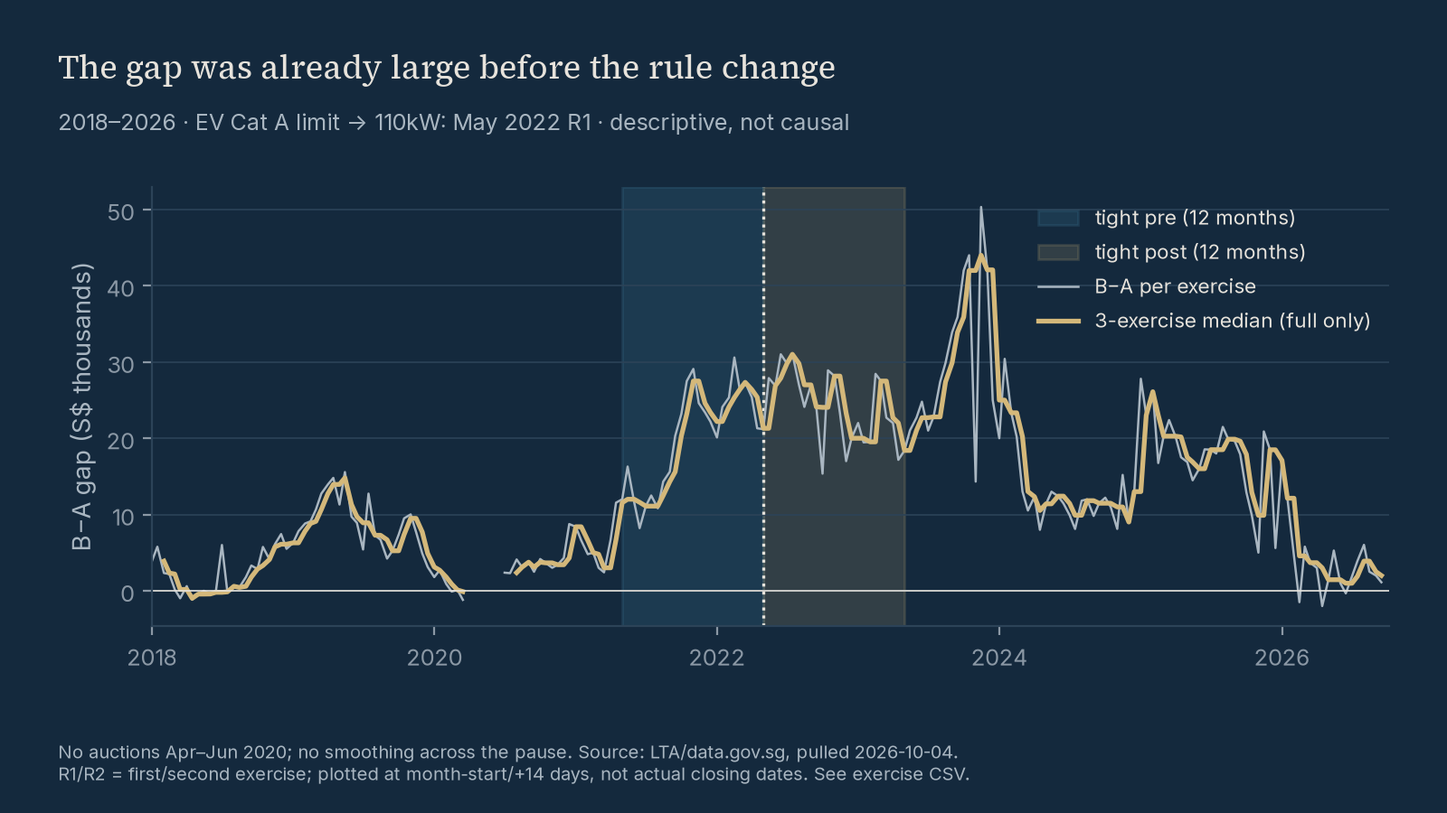
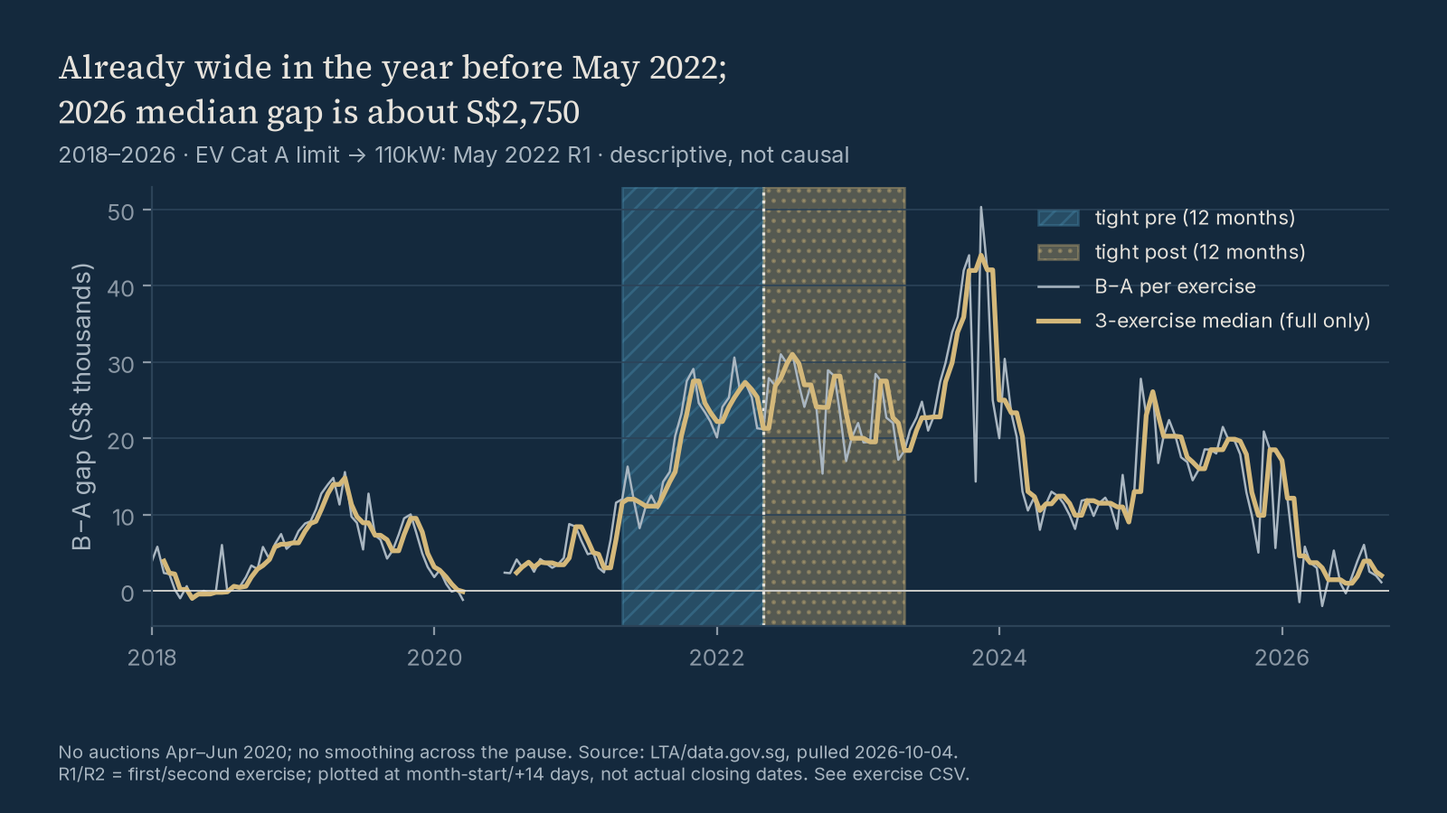
[verified] fix: clarify paired medians and May 2022 confounds

Changed region(s): [[0.0312, 0.0622, 0.625, 0.7778], [0.7188, 0.2489, 0.75, 0.3422]]

diff --git a/docs/index.html b/docs/index.html
@@ -50,7 +50,7 @@ code{font-family:ui-monospace,Consolas,Menlo,monospace;font-size:.92em}footer{bo
 <img src="img/banner.svg" alt="Did the B–A premium gap move after May 2022? A descriptive before/after read, not a causal estimate.">
 </picture></div>
 <h1>The gap answer depends on the window</h1>
-<p class="lead"><b>Both premium levels rose.</b> The median exercise-level B−A gap rose from <b>S$6,190.50 to S$18,198.50</b> in the structural comparison (<b>+S$12,008</b>). In the fixed ±12-month comparison it rose from <b>S$21,745.50 to S$24,081.50</b> (<b>+S$2,336</b>): the gap was already large before May 2022.</p>
+<p class="lead"><b>Both premium levels rose.</b> The median exercise-level B−A gap rose from <b>S$6,190.50 to S$18,198.50</b> in the structural comparison (<b>+S$12,008</b>). In the fixed ±12-month comparison it rose from <b>S$21,745.50 to S$24,081.50</b> (<b>+S$2,336</b>): the gap was already large in the year before May 2022.</p>
 <p class="note"><b>Not the effect of the rule change.</b> Redefining A/B changed the baskets being compared. These are different observational samples, with no fixed-composition or untreated control. The small tight-window change does not establish that the rule had no effect.</p>
 <div class="stats">
 <div class="stat"><div class="n">+S$12,008</div><div class="l">Structural median B−A change: 6,190.50 → 18,198.50. Pre 2018-01–2022-04: n=98; post 2022-05–2026-09 R2: n=106 exercises.</div></div>
@@ -62,11 +62,13 @@ code{font-family:ui-monospace,Consolas,Menlo,monospace;font-size:.92em}footer{bo
 <source media="(prefers-color-scheme: dark)" srcset="img/f1_levels-dark.png">
 <img src="img/f1_levels.png" alt="Category A and B premiums rose; the May 2022 eligibility boundary is marked, not interpreted as causal.">
 </picture><figcaption>Levels and the gap answer different questions. Premium means auction quota premium, not renewal PQP or vehicle transaction price. R1/R2 are spaced at month-start/+14 days for display, not actual closing dates.</figcaption></figure>
-<h2>The gap was already large before May 2022</h2>
+<p class="note">Do not subtract the level columns to obtain the median paired gap. median(B)−median(A) moves structural 3,386 → 18,948.50 (+15,562.50) but tight 25,441.50 → 22,028.50 (−3,413), the opposite sign from the median paired-gap change (+12,008 structural; +2,336 tight). For the gap finding, quote the median of exercise-level B−A only.</p>
+<h2>Already wide in the year before May 2022; narrower in 2026</h2>
 <figure class="fig"><picture>
 <source media="(prefers-color-scheme: dark)" srcset="img/f2_gap-dark.png">
 <img src="img/f2_gap.png" alt="B−A gaps with full three-exercise medians; the fixed tight comparison windows are shaded.">
 </picture><figcaption>Shading marks the tight comparison windows, not confidence intervals or treatment effects. The structural read uses the whole 2018-onward chart on either side. Observed ranges overlap substantially; post gaps are not uniformly above pre gaps.</figcaption></figure>
+<p>Calendar-year median paired gaps (S$), not a permanent post level: 2018 1,991; 2019 8,863.50; 2020 2,852.50; 2021 11,799; 2022 25,890.50 (May split); 2023 23,796.50; 2024 11,900.50; 2025 18,492.50; 2026 2,750 (Jan–Sep R2, 18 exercises). 2022 is not a post-only year. The 2026 partial-year median is below the structural-pre median.</p>
 <h2>Method — separate levels from paired differences</h2>
 <ol class="method">
 <li><b>Acquire and verify</b> — independently downloaded LTA <a href="https://data.gov.sg/datasets/d_69b3380ad7e51aff3a7dcc84eba52b8a/view">COE bidding results</a>, pulled 2026-10-04. The vendored raw CSV has a byte-SHA-256 manifest. <a href="https://github.com/faizsaifulnizam/coe-category-break/blob/main/src/download.py">Download code</a> validates before replacing raw/manifest.</li>
@@ -80,9 +82,11 @@ code{font-family:ui-monospace,Consolas,Menlo,monospace;font-size:.92em}footer{bo
 <h2>What this file cannot say</h2>
 <p><a href="https://onemotoring.lta.gov.sg/content/dam/onemotoring/pdf/Circulars%20to%20ESAs/2022/VRL_04_2022.pdf">LTA circular VRL/04/2022, pp 1, 4–5</a> raises fully electric Cat A maximum power from 97 to 110kW inclusive at the first May 2022 exercise (4–6 May), not the March announcement. Non-fully-electric A retains ≤1,600cc AND ≤97kW. This changes composition in a shared scarce-permit market; B is not an untreated control.</p>
 <p>B−A cancels only exactly shared additive changes, not category-specific quota, demand or mix shifts. Quota/supply cycles, dealer orders, EV incentives/adoption, model availability, macro conditions and anticipation can confound the comparison. Reclassification may mechanically move measured gaps without a behavioral response. Range overlap cannot prove zero effect. Aggregate clearing prices lack individual bids, power bands, registrations and buyer substitution.</p>
+<p>At the boundary, summed exercise quota in this snapshot moves Feb–Apr 2022 → May–Jul 2022 by Cat A 3,220 → 3,708 (+15.2%) and Cat B 3,325 → 3,168 (−4.7%); Apr R2 → May R1 is A 532 → 612 (+15.0%) and B 560 → 527 (−5.9%). This is a category-asymmetric supply change in the same file, not a control, and it is not removed by B−A. These figures come from the vendored quota column, not a separately verified release annex.</p>
 <p>No causal estimates, difference-in-differences, significance stars, prescriptions or forecasts. The <a href="https://github.com/faizsaifulnizam/coe-category-break/blob/main/docs/if_i_ran_the_test.md">experiment-design annex</a> discusses counterfactuals and shared-market interference; it is not an implemented experiment with this dataset.</p>
 <h2>Reproduce</h2>
 <p>The repository README carries the full rules, validation and limits. Git Bash / Bash, Windows or Linux:</p>
+<p>Requires uv on PATH (https://docs.astral.sh/uv/) to create the Python 3.12 venv. If uv is absent, use <code>python3.12 -m venv .venv</code> (<code>py -3.12 -m venv .venv</code> on Windows), activate as below, then use the same pip line. CI uses actions/setup-python and does not run the uv line.</p>
 <pre><code>git clone https://github.com/faizsaifulnizam/coe-category-break &amp;&amp; cd coe-category-break
 uv venv .venv --python 3.12 --seed
 if [ -f .venv/Scripts/activate ]; then source .venv/Scripts/activate; else source .venv/bin/activate; fi
@@ -94,10 +98,11 @@ python src/figures.py
 python -m unittest discover -s tests -v
 python tests/smoke_test.py</code></pre>
 <p class="cap">Default download validates the committed snapshot without data-fetch network. Installing dependencies needs network/cache. A later <code>--force</code> pull requires rerunning all stages and reviewing maintained prose, chart titles and snapshot locks. Spot-check all-round gap medians: structural 6,190.50 → 18,198.50; tight 21,745.50 → 24,081.50; <code>git diff --exit-code -- 'outputs/*.csv'</code>.</p>
+<p class="cap">Figure PNG bytes are not a cross-machine lock. A dirty reports/figures or docs/img after figures.py is compression/metadata-only only if the decoded pixels also match the committed PNGs. An empty CSV diff alone does not establish image equivalence; inspect any pixel differences.</p>
 <h2>Read more</h2>
 <ul>
 <li><a href="https://github.com/faizsaifulnizam/coe-category-break">Repository and inline method</a> · <a href="https://github.com/faizsaifulnizam/coe-category-break/tree/main/outputs">numerical outputs</a></li>
-<li><a href="https://github.com/faizsaifulnizam/coe-category-break/blob/main/docs/decision_memo.md">Decision memo</a> · <a href="https://github.com/faizsaifulnizam/coe-category-break/blob/main/docs/data_audit.md">data audit</a> · <a href="https://github.com/faizsaifulnizam/coe-category-break/blob/main/docs/verification.md">verification receipts and clean-history context</a></li>
+<li><a href="https://github.com/faizsaifulnizam/coe-category-break/blob/main/docs/decision_memo.md">Decision memo</a> · <a href="https://github.com/faizsaifulnizam/coe-category-break/blob/main/docs/data_audit.md">data audit</a> · <a href="https://github.com/faizsaifulnizam/coe-category-break/blob/main/docs/verification.md">public verification receipts</a></li>
 <li><a href="https://github.com/faizsaifulnizam/coe-category-break/blob/main/docs/if_i_ran_the_test.md">If I ran the test — experiment-design annex</a></li>
 </ul>
 <footer>

diff --git a/tests/test_site.py b/tests/test_site.py
@@ -18,6 +18,37 @@ class Tags(HTMLParser):
     def handle_starttag(self,tag,attrs):self.tags.append((tag,dict(attrs)))
 
 class Site(unittest.TestCase):
+    def test_review_claims_match_raw_and_explain_opposite_sign(self):
+        from collections import defaultdict
+        from statistics import median
+        with (ROOT/'data/raw/coe-bidding-results.csv').open(encoding='utf-8',newline='') as f:
+            raw=list(csv.DictReader(f))
+        pairs=defaultdict(dict)
+        for r in raw:
+            if r['month']>='2018-01' and r['vehicle_class'] in ('Category A','Category B'):
+                pairs[(r['month'],r['bidding_no'])][r['vehicle_class']]=int(r['premium'].replace(',',''))
+        annual=defaultdict(list)
+        for (month,_),p in pairs.items():annual[month[:4]].append(p['Category B']-p['Category A'])
+        self.assertEqual((median(annual['2026']),len(annual['2026'])),(2750,18))
+        with (ROOT/'outputs/gap_summary.csv').open(encoding='utf-8',newline='') as f:
+            tight={r['period']:r for r in csv.DictReader(f) if r['window']=='tight' and r['variant']=='all'}
+        differences=[Decimal(tight[p]['median_b'])-Decimal(tight[p]['median_a']) for p in ('pre','post')]
+        self.assertEqual(differences[1]-differences[0],Decimal('-3413'))
+        for name in ('README.md','docs/index.html'):
+            text=(ROOT/name).read_text(encoding='utf-8')
+            self.assertIn('opposite sign',text)
+            self.assertIn('−3,413',text)
+            self.assertIn('2022 is not a post-only year',text)
+            for year,values in sorted(annual.items()):
+                self.assertIn(f'{year} {median(values):,.2f}'.removesuffix('.00'),text)
+            for cat in ('Category A','Category B'):
+                quotas=[sum(int(r['quota']) for r in raw if r['vehicle_class']==cat and start<=r['month']<=end) for start,end in (('2022-02','2022-04'),('2022-05','2022-07'))]
+                change=(quotas[1]/quotas[0]-1)*100
+                self.assertIn(f'{quotas[0]:,} → {quotas[1]:,} ({change:+.1f}%)'.replace('-','−'),text)
+            self.assertIn('Requires uv on PATH',text)
+            self.assertIn('decoded pixels',text)
+            self.assertNotIn('Private clone requires',text)
+
     def test_site_assets_metadata_claims_and_series(self):
         html=(ROOT/'docs/index.html').read_text(encoding='utf-8')
         card=(ROOT/'docs/social-card.html').read_text(encoding='utf-8')

diff --git a/src/figures.py b/src/figures.py
@@ -91,12 +91,12 @@ def main():
         for gap in (False,True):
             fig,ax=plt.subplots(figsize=(8,4.5),dpi=200)
             fig.subplots_adjust(left=.105,right=.96,bottom=.23,top=.77)
-            title=fig.text(.04,.945,'The gap was already large before the rule change' if gap else 'Both categories rose; the gap followed its own path',fontsize=13,ha='left',va='top',fontfamily='Source Serif 4',color=ink)
-            subtitle=fig.text(.04,.84,f"2018–{rows[-1][0].year} · EV Cat A limit → 110kW: May 2022 R1 · descriptive, not causal",fontsize=9,color=muted)
+            title=fig.text(.04,.945,'Already wide in the year before May 2022;\n2026 median gap is about S$2,750' if gap else 'Both categories rose; the gap followed its own path',fontsize=13,ha='left',va='top',fontfamily='Source Serif 4',color=ink)
+            subtitle=fig.text(.04,.80 if gap else .84,f"2018–{rows[-1][0].year} · EV Cat A limit → 110kW: May 2022 R1 · descriptive, not causal",fontsize=9,color=muted)
             ax.axvline(date(2022,5,1),color=ink,ls=':',lw=1.2)
             if gap:
-                ax.axvspan(date(2021,5,1),date(2022,5,1),color=petrol,alpha=.16,label='tight pre (12 months)')
-                ax.axvspan(date(2022,5,1),date(2023,5,1),color=brass,alpha=.16,label='tight post (12 months)')
+                ax.axvspan(date(2021,5,1),date(2022,5,1),color=petrol,alpha=(.34 if dark else .16),hatch='///' if dark else None,label='tight pre (12 months)')
+                ax.axvspan(date(2022,5,1),date(2023,5,1),color=brass,alpha=(.34 if dark else .16),hatch='...' if dark else None,label='tight post (12 months)')
                 ax.plot(xs,series[2],color=muted,lw=.9,label='B−A per exercise')
                 ax.plot(xs,series[3],color=brass,lw=1.9,label='3-exercise median (full only)')
                 ax.axhline(0,color=ink,lw=.6)

diff --git a/tests/test_figures.py b/tests/test_figures.py
@@ -10,6 +10,25 @@ sys.path.insert(0,str(Path(__file__).resolve().parents[1]))
 ROOT=Path(__file__).resolve().parents[1]
 
 class Figures(unittest.TestCase):
+    def test_gap_title_and_theme_window_contrast(self):
+        from src import figures
+        original=figures.qa
+        seen=[]
+        def inspect(fig,title,footer,subtitle):
+            ax=fig.axes[0]
+            if ax.get_ylabel()=='B−A gap (S$ thousands)':
+                self.assertIn('year before May 2022',title.get_text())
+                self.assertIn('2026 median gap is about S$2,750',title.get_text())
+                dark=fig.get_facecolor()[0]<.5
+                self.assertEqual([p.get_alpha() for p in ax.patches],[.34 if dark else .16]*2)
+                seen.append(dark)
+            original(fig,title,footer,subtitle)
+        try:
+            with patch.object(figures,'qa',inspect):figures.main()
+            self.assertEqual(seen,[False,True])
+        finally:
+            figures.plt.close('all')
+
     def test_figures_cli_repeat_bytes(self):
         self.assertTrue((ROOT/'src/figures.py').exists(),'figure CLI missing')
         paths=[ROOT/f'reports/figures/{stem}{suffix}.png' for stem in ('f1_levels','f2_gap') for suffix in ('','-dark')]+[ROOT/f'assets/banner{suffix}.svg' for suffix in ('','-dark')]

diff --git a/docs/verification.md b/docs/verification.md
@@ -1,56 +1,9 @@
-# Verification receipts — publication layer and private-review provenance
+# Public verification — 2026-10-04
 
-**2026-10-04 · reviewed; publication approved.** Site/card preparation and checks below are local. Merge, public visibility, Pages deployment and manual social-preview upload are separate operations; this receipt does not claim they have happened.
+The public baseline at [`4d969f2`](https://github.com/faizsaifulnizam/coe-category-break/commit/4d969f2b326cdbd9bbeea5402b9d44c003a15779) passed the README block on Python 3.12: hash-locked pip install, download/build/analysis/figures, **17 tests OK**, smoke PASS and byte-identical `outputs/*.csv`. [CI on that SHA passed](https://github.com/faizsaifulnizam/coe-category-break/actions/runs/37187059883).
 
-## Parent final candidate replay — 2026-10-04
+The Grok-review corrections retain the same raw snapshot and all three numerical CSVs. Local Python 3.12 verification returned **19 tests OK**, smoke PASS and an empty CSV diff. New regressions check the actual rendered gap title/dark window alpha and recompute the annual medians, quota sums and tight-window opposite-sign distinction from raw-backed data. The existing transition test still selects Apr/May 2022 R1/R2. Run the [README commands](../README.md#reproduce) to repeat these checks; [current CI](https://github.com/faizsaifulnizam/coe-category-break/actions/workflows/ci.yml) is a separate public record, not inferred from local tests.
 
-A genuinely fresh remote clone at publication-layer head `97625bece488bc3238337aa7fd807f6a076ee940` executed the README's own environment creation, pinned dependency installation and every Python command. 17 focused tests and smoke; 9 protected CSV/PNG/SVG artifacts passed. Every tracked file retained its pre-run SHA-256 and `git status --porcelain` was empty. Figure/banner copies under `docs/img/` match their producer outputs byte-for-byte. Both 1280×640 preview cards were checked.
+The [artifact receipt](artifact_receipt.json) contains current nine-artifact SHA-256 values. Same-environment figure renders repeat byte-for-byte. PNG bytes can differ across machines: compare decoded pixels before calling a change compression/metadata-only. An empty CSV diff does not prove image equivalence.
 
-All reachable Git objects were scanned against the actual non-noreply identity values from the preserved private history: zero matches. Candidate commit authors and committers use the required portfolio noreply identity. Private markers are discovered across the archived history, excluding portfolio and GitHub service noreply identities.
-
-Durable operator receipts: `D:/Data Portfolio/work/wave3/evidence/publication-final/`. These are local evidence locations, not runnable project inputs. The following status/receipt edits change Markdown only; the executed producers and reviewed artifact bytes remain unchanged. Final merge-SHA CI, anonymous access and deployed-blob comparisons are separate coordinator gates, not inferred from this local replay.
-
-## Clean-history context
-
-This repository starts at clean noreply root **27b6a6711b4a8e4c5cc54d8b37e44a8237148cb1**. Its initial tree preserves the reviewed private-build artifacts. Prior implementation, independent reviews and PR/CI history are archived privately outside this clean repository's history, not presented as current public PRs or CI runs. Both author and committer of the clean root use the GitHub noreply identity.
-
-The [artifact receipt](artifact_receipt.json) is explicitly a **historical private pre-publication receipt**. Its `head`, `ref`, workspace paths and 15-test result describe that earlier private clone, not execution from the clean root or this publication branch. They are retained as provenance; those commit identifiers are not promised to resolve in public history. Workspace paths in the historical sections below are non-portable evidence locations, not repository inputs.
-
-## Local publication-layer checks (2026-10-04)
-
-- The vendored download validation and staging ran successfully: **1,980 rows, 396 complete exercises; 204 paired analysis exercises; SQL 5/5**. No live repull or numerical-method change.
-- `python -m unittest discover -s tests -v` using the already-installed Windows Python 3.12 environment returned **17 tests, OK**; smoke PASS. Added checks cover site metadata, both CSV-backed comparison anchors/counts, six series links, local assets/font targets and 1280×640 card dimensions. Figure tests confirm six site copies match their sources and inject a failure at the **last Pages replacement in the actual 12-file figure/banner batch**, restoring every prior byte and cleaning staged files.
-- Four figures and two banners regenerated twice with equal same-environment hashes. `git diff --exit-code` for raw/manifest, numerical CSVs, original figure PNGs and banner SVGs returned **0** against the clean root; their reviewed bytes are unchanged. Six Pages copies use the existing validated publication seam, not a separate analysis path.
-- Edge headless/CDP exercised **10 local browser cases**: site and GitHub-API-rendered README at 1280px and 390px in light/dark, plus both 1280×640 card themes. All three picture images loaded and selected the expected theme; no page-level horizontal overflow. Inter and Source Serif 4 loaded. Card text boxes were in bounds with no overlap; repeated captures were byte-identical in this run.
-- `gh api markdown` supplied GitHub's current sanitized README HTML: three standalone pictures survived with one source and one image each. Browser media QA served that HTML with local assets and minimal preview CSS; external badges were excluded. This is **not a logged-in github.com DOM or deployed Pages receipt**.
-- Markdown/local-media scan: **27 distinct local targets, zero missing**. Static site checks validate asset/font confinement under `docs/`, canonical URL, absolute Pages Open Graph image, dimensions and Twitter large-image metadata. The canonical Pages target is intentionally not treated as a live deployment check.
-- Visual inspection covered the light card and mobile dark site, then both final card themes. A suspected dark-card contrast issue was checked numerically: body/footer **7.175:1** (normal-text threshold 4.5:1); 22px semibold disclaimer **4.347:1** (large-text threshold 3:1). No clipping or overlap remained. Windows/Edge rendering is the measured scope, not cross-browser pixel equivalence.
-
-Workspace QA logs/screenshots: `C:/Users/Faiz/AppData/Local/hermes/cache/scratch/coe05-publication-qa/` (`tests.log`, `readme-api.html`, `browser-receipt.json`, theme screenshots); reusable local browser check: sibling `coe05-publication-qa.py`. This publication layer adds no installed dependency and changes no external settings. Final fresh-clone setup and deployed-site checks belong to the publication coordinator.
-
-## Prior private build — actual execution (historical)
-
-Own live download succeeded at 2026-10-04T00:04:11+00:00. Exact raw SHA-256 is in [pull_manifest.json](../data/raw/pull_manifest.json), matches file bytes; 1,980 rows / 396 complete exercises, latest 2026-09 R2.
-
-The README four-stage pipeline completed. `env -u TMPDIR .venv/Scripts/python.exe -m unittest discover -s tests -v` returned **15 tests, OK**, followed by smoke PASS and compileall exit 0. Independent stdlib recomputation covers all 12 summary rows. Two-render test compared **four PNG and two SVG hashes**, equal in the tested Windows/Python3.12 environment. Producer-boundary regressions include invalid HTTP schema preserving prior raw+manifest, valid-but-tampered cache rejection, missing/unpaired A/B including latest, duplicates, missing whole scheduled auction, latest complete R1, future growth, transition selections, suspension reset and ordinary batch replacement rollback.
-
-Red/green receipts during development: missing byte validator, batch publication seam, SQL metrics seam, analysis CLI and figure CLI each failed before implementation and passed afterward. Valid-but-manifest-mismatched bytes initially passed staging; new regression failed, manifest enforcement fixed it and the full suite passed. Figure pixel assertions caught title/subtitle overlap and banner footer placement; corrected and repeated. Shared styles/assets reused; no new tools installed.
-
-Visual review covered all four light/dark figure combinations. It prompted naming the 110kW EV change, expanding first/second exercise terminology and increasing pre-window shade contrast. Numeric QA measures **64px minimum** title/subtitle/footer horizontal margins, checks all visible text inside canvas, figure-text/annotation overlaps and legend-observation clearance. No claim of SVG font equivalence across viewers or pixel equality across OSs.
-
-Full local command log (workspace receipt, not a portable repo input):
-`C:/Users/Faiz/AppData/Local/hermes/cache/scratch/coe05-receipts/local-final.log`.
-
-## Prior private build — scope and checks (historical)
-
-Originality re-check in [audit](data_audit.md): medium adjacency; corrected earlier no-prior-work claim because press already discusses the EV rule/gap. No topic/data novelty claim. Build sheet, spec and learning pack stay outside the repo. Shared hub/design/learn00, sibling repos, publish/, planning and skills were not modified.
-
-Settings read back: private, no Pages, wiki/projects off; Dependabot alerts HTTP204 and automated security fixes enabled/unpaused. No settings change required.
-
-## Prior private build — fresh clone, exact README commands (historical)
-
-Branch snapshot **b3a19b69ce787c81828d1d34b25039e720dade55** was cloned into a new native-path scratch directory. The fresh README bash block supplied uv venv (`--seed`), platform-aware activation, **hash-locked pip install**, four pipeline commands, all tests and smoke—unchanged after the equivalent authorized clone line (explicit branch ref). With TMPDIR absent, exit **0**; **15 tests OK**, smoke PASS; **9/9 artifact SHA-256 values identical** (3 CSV, 4 PNG, 2 SVG), `git diff` empty and `git status` clean. Relative-link scan: **25 distinct local targets, 0 missing**. [Machine receipt and exact hashes](artifact_receipt.json).
-
-Workspace logs and reusable verifier: `C:/Users/Faiz/AppData/Local/hermes/cache/scratch/coe05-receipts/branch-stranger-gitbash.log`, `.json`, and `verify_coe05.py`. Initial scratch harness selected Windows' WSL `bash` and could not start it; discovered the actual Git Bash executable and re-ran in a second genuinely fresh clone. This was a harness path issue, not fabricated successful output or a bypass of README setup.
-
-The historical receipt's branch hash preceded its private documentation-only receipt commit. Historical PR/main CI state was recorded outside the public history after actual runs. Current branch CI must be read from its own PR checks; neither historical evidence nor local tests stand in for green CI or a new fresh-clone setup receipt.
+Private-machine paths and pre-publication commit identifiers are not used as public verification evidence.

diff --git a/README.md b/README.md
@@ -13,9 +13,9 @@
 
 [![CI](https://github.com/faizsaifulnizam/coe-category-break/actions/workflows/ci.yml/badge.svg)](https://github.com/faizsaifulnizam/coe-category-break/actions/workflows/ci.yml) [![MIT](https://img.shields.io/badge/license-MIT-B9975B.svg)](LICENSE) ![Python 3.12](https://img.shields.io/badge/Python-3.12-22607B.svg) ![DuckDB](https://img.shields.io/badge/SQL-DuckDB-C0552B.svg) [Data: LTA/data.gov.sg](https://data.gov.sg/datasets/d_69b3380ad7e51aff3a7dcc84eba52b8a/view)
 
-> **Both premium levels rose, but the gap answer depends on the window.** The median exercise-level **B−A gap rose from S$6,190.50 to S$18,198.50** in the structural comparison (**+S$12,008**). In the fixed ±12-month comparison it rose only **S$2,336**, from **S$21,745.50 to S$24,081.50**: the gap was already large before May 2022. These describe different samples, **not the effect of the rule change**, and do not establish that the rule had no effect.
+> **Both premium levels rose, but the gap answer depends on the window.** The median exercise-level **B−A gap rose from S$6,190.50 to S$18,198.50** in the structural comparison (**+S$12,008**). In the fixed ±12-month comparison it rose only **S$2,336**, from **S$21,745.50 to S$24,081.50**: the gap was already large in the year before May 2022. These describe different samples, **not the effect of the rule change**, and do not establish that the rule had no effect.
 
-**Status:** built and reviewed 2026-10-04; publication approved. Fixed official snapshot through **2026-09 R2**, independently pulled 2026-10-04. Findings/chart titles are reviewed prose, not automatically refreshed text. Part of a six-repo series on Singapore public data. [Report site](https://faizsaifulnizam.github.io/coe-category-break/) · [verification receipts](docs/verification.md). Prior private reviews are archived outside this repository's clean public history.
+**Status:** built and reviewed 2026-10-04; public. Grok-review corrections verified 2026-10-04. Fixed official snapshot through **2026-09 R2**, independently pulled 2026-10-04. Findings/chart titles are reviewed prose, not automatically refreshed text. Part of a six-repo series on Singapore public data. [Report site](https://faizsaifulnizam.github.io/coe-category-break/) · [verification receipts](docs/verification.md). Prior private reviews are archived outside this repository's clean public history.
 
 ## Key numbers (all reproducible)
 
@@ -28,8 +28,9 @@ One observation = one fully paired exercise; money is **S$**, not vehicle prices
 | Tight pre: 2021-05–2022-04 | 24 (12 / 12) | 53,209 | 78,650.50 | 21,745.50 | 8,211 → 30,590 |
 | Tight post: 2022-05–2023-04 | 24 (12 / 12) | 86,000 | 108,028.50 | 24,081.50 | 15,355 → 31,104 |
 
-- **Levels rose in both windows:** structural median A **+59,484**, B **+75,046.50**; tight A **+32,791**, B **+29,378**. Level-median changes do not algebraically decompose the median paired gap.
+- **Levels rose in both windows:** structural median A **+59,484**, B **+75,046.50**; tight A **+32,791**, B **+29,378**. Do not subtract the level columns to obtain the median paired gap. median(B)−median(A) moves structural 3,386 → 18,948.50 (+15,562.50) but tight 25,441.50 → 22,028.50 (−3,413), the opposite sign from the median paired-gap change (+12,008 structural; +2,336 tight). For the gap finding, quote the median of exercise-level B−A only.
 - **Ranges overlap substantially:** post gaps were not uniformly above pre gaps. The long comparison cannot isolate a discontinuity at the event; the tight comparison does not establish its absence.
+- Calendar-year median paired gaps (S$), not a permanent post level: 2018 1,991; 2019 8,863.50; 2020 2,852.50; 2021 11,799; 2022 25,890.50 (May split); 2023 23,796.50; 2024 11,900.50; 2025 18,492.50; 2026 2,750 (Jan–Sep R2, 18 exercises). 2022 is not a post-only year. The 2026 partial-year median is below the structural-pre median.
 - **Robust reads preserve the sign, not magnitude:** R1-only gap-median changes **+12,398 / +2,792.50** (structural/tight); excluding two exercises each side **+11,892.50 / +2,832.50**. [Sensitivity CSV](outputs/sensitivity.csv) / [how to read it](docs/sensitivity.md).
 
 <picture>
@@ -43,7 +44,7 @@ One observation = one fully paired exercise; money is **S$**, not vehicle prices
 
 <picture>
 <source media="(prefers-color-scheme: dark)" srcset="reports/figures/f2_gap-dark.png">
-<img src="reports/figures/f2_gap.png" width="100%" alt="B−A gaps with full three-exercise medians; tight windows shaded. The gap was already large before May 2022.">
+<img src="reports/figures/f2_gap.png" width="100%" alt="B−A gaps with full three-exercise medians; tight windows shaded. Already wide in the year before May 2022; 2026 Jan–Sep median gap is S$2,750.">
 </picture>
 
 [Full-size gap](reports/figures/f2_gap.png) · [dark](reports/figures/f2_gap-dark.png) · [exercise table](outputs/exercise_series.csv). Shading marks comparison windows, **not confidence intervals or treatment effects**. Structural comparison = whole 2018-onward chart on either side.
@@ -103,6 +104,8 @@ One locked question; declared windows; SQL first; preserve bytes; independent ch
 
 ## Reproduce
 
+Requires uv on PATH (https://docs.astral.sh/uv/) to create the Python 3.12 venv. If uv is absent, use `python3.12 -m venv .venv` (`py -3.12 -m venv .venv` on Windows), activate as below, then use the same pip line. CI uses actions/setup-python and does not run the uv line.
+
 ```bash
 git clone https://github.com/faizsaifulnizam/coe-category-break && cd coe-category-break
 uv venv .venv --python 3.12 --seed
@@ -118,9 +121,13 @@ python -m unittest discover -s tests -v
 python tests/smoke_test.py
 ```
 
-Spot-check `gap_summary.csv`, `variant=all`: structural **6,190.50 → 18,198.50**, tight **21,745.50 → 24,081.50**; then `git diff --exit-code -- 'outputs/*.csv'`. Private clone requires authorized access. A later `python src/download.py --force` creates a **new snapshot**: rerun and review maintained prose/chart titles and locks before publishing. Fixed tight-window dates do not slide with new history.
+Figure PNG bytes are not a cross-machine lock. A dirty `reports/figures` or `docs/img` after `figures.py` is compression/metadata-only only if the decoded pixels also match the committed PNGs. An empty CSV diff alone does not establish image equivalence; inspect any pixel differences.
+
+Spot-check `gap_summary.csv`, `variant=all`: structural **6,190.50 → 18,198.50**, tight **21,745.50 → 24,081.50**; then `git diff --exit-code -- 'outputs/*.csv'`. A later `python src/download.py --force` creates a **new snapshot**: rerun and review maintained prose/chart titles and locks before publishing. Fixed tight-window dates do not slide with new history.
 
 ## Caveats
+
+At the boundary, summed exercise quota in this snapshot moves Feb–Apr 2022 → May–Jul 2022 by Cat A 3,220 → 3,708 (+15.2%) and Cat B 3,325 → 3,168 (−4.7%); Apr R2 → May R1 is A 532 → 612 (+15.0%) and B 560 → 527 (−5.9%). This is a category-asymmetric supply change in the same file, not a control, and it is not removed by B−A. These figures come from the vendored quota column, not a separately verified release annex.
 
 Quota/supply cycles, dealer orders/bidding strategy, model availability, EV incentives/adoption, macro conditions and anticipation are potential confounds. Reclassification may move measured gaps mechanically through basket composition without proving a behavioral response. Aggregate clearing prices lack individual bids, EV power bands, registrations or buyer substitution. Structural validation does not certify every historical cell; the as-is source can revise.
 

diff --git a/docs/decision_memo.md b/docs/decision_memo.md
@@ -4,13 +4,19 @@
 
 The long structural read shows a wider median B−A gap: **S$6,190.50 → S$18,198.50 (+12,008)**. It compares 2018-01–2022-04 (98 exercises) with 2022-05–2026-09 R2 (106). Median A rises **36,619 → 96,103** and B **40,005 → 115,051.50**. Gap ranges **−1,198–30,590** and **−2,009–50,335** overlap; the post series is not uniformly higher.
 
-The symmetric calendar read tells a smaller story. In 2021-05–2022-04 versus 2022-05–2023-04, **24 exercises each**, the median gap is **21,745.50 → 24,081.50 (+2,336)**. Median A is **53,209 → 86,000** and B **78,650.50 → 108,028.50**; gap ranges **8,211–30,590** versus **15,355–31,104**. The gap was already large before the rule took effect. Both premium levels rose substantially, without a comparably large tight-window gap shift.
+The symmetric calendar read tells a smaller story. In 2021-05–2022-04 versus 2022-05–2023-04, **24 exercises each**, the median gap is **21,745.50 → 24,081.50 (+2,336)**. Median A is **53,209 → 86,000** and B **78,650.50 → 108,028.50**; gap ranges **8,211–30,590** versus **15,355–31,104**. The gap was already large in the year before the rule took effect. Both premium levels rose substantially, without a comparably large tight-window gap shift.
 
 R1-only preserves positive gap-median changes (**+12,398 structural; +2,792.50 tight**). Excluding Apr R1/R2 and May R1/R2 produces **+11,892.50 / +2,832.50**. This is consistency of direction under these specified reads, not universal robustness or a causal estimate. Medians of paired differences cannot be reconstructed by subtracting category medians.
+
+Do not subtract the level columns to obtain the median paired gap. median(B)−median(A) moves structural 3,386 → 18,948.50 (+15,562.50) but tight 25,441.50 → 22,028.50 (−3,413), the opposite sign from the median paired-gap change (+12,008 structural; +2,336 tight). For the gap finding, quote the median of exercise-level B−A only.
+
+Calendar-year median paired gaps (S$), not a permanent post level: 2018 1,991; 2019 8,863.50; 2020 2,852.50; 2021 11,799; 2022 25,890.50 (May split); 2023 23,796.50; 2024 11,900.50; 2025 18,492.50; 2026 2,750 (Jan–Sep R2, 18 exercises). 2022 is not a post-only year. The 2026 partial-year median is below the structural-pre median.
 
 ## What this file cannot say
 
 LTA's May-2022 first exercise raised the fully electric Cat A threshold from 97 to **110kW inclusive**, changing basket composition. A/B are competing, connected categories, not treatment and untreated control. Quota allocation, supply-cycle timing, dealer demand, model/buyer mix, EV incentives, macro conditions and March-announcement anticipation can differ across time/categories. The gap can change mechanically through reclassification; this file cannot separate that from behavior or identify how much the policy caused.
+
+At the boundary, summed exercise quota in this snapshot moves Feb–Apr 2022 → May–Jul 2022 by Cat A 3,220 → 3,708 (+15.2%) and Cat B 3,325 → 3,168 (−4.7%); Apr R2 → May R1 is A 532 → 612 (+15.0%) and B 560 → 527 (−5.9%). This is a category-asymmetric supply change in the same file, not a control, and it is not removed by B−A. These figures come from the vendored quota column, not a separately verified release annex.
 
 **Decision:** communicate the two windows together; retain the categorical refusal of causality. Do not use the long-window +12,008 as an EV-policy effect, or the small tight-window change as proof of no effect. Individual bids, vehicle power/model, registrations, linked substitution and a credible assignment/counterfactual design would strengthen the study. The [annex](if_i_ran_the_test.md) explains why individual buyer randomization would not recover a shared-market equilibrium effect.
 

diff --git a/docs/data_audit.md b/docs/data_audit.md
@@ -35,9 +35,13 @@ Reconciliation (exclusive reasons): **1,980 = 960 pre-2018 + 612 C/D/E in 2018+ 
 
 [Full summary](../outputs/gap_summary.csv) also contains both robustness variants and round counts. Gap is paired B−A per exercise; its median need not equal median B minus median A. Negative gaps are retained, not labelled erroneous. Min/max are not confidence intervals.
 
+Calendar-year median paired gaps (S$), not a permanent post level: 2018 1,991; 2019 8,863.50; 2020 2,852.50; 2021 11,799; 2022 25,890.50 (May split); 2023 23,796.50; 2024 11,900.50; 2025 18,492.50; 2026 2,750 (Jan–Sep R2, 18 exercises). 2022 is not a post-only year. The 2026 partial-year median is below the structural-pre median.
+
 ## Boundary and coverage decisions
 
 Verified before analysis: [LTA circular 8 March 2022, VRL/04/2022, pp 1, 4–5](https://onemotoring.lta.gov.sg/content/dam/onemotoring/pdf/Circulars%20to%20ESAs/2022/VRL_04_2022.pdf), and [May–July quota release](https://www.lta.gov.sg/content/ltagov/en/newsroom/2022/4/news-releases/certificate-of-entitlement-quota-for-may-2022-to-july-2022.html): eligibility begins **May 2022 first exercise, 4–6 May**. Fully electric A threshold **≤110kW**, formerly 97kW; non-fully-electric A remains ≤1,600cc AND ≤97kW. Newly eligible EVs are not an invariant basket; anticipation can begin at March announcement.
+
+At the boundary, summed exercise quota in this snapshot moves Feb–Apr 2022 → May–Jul 2022 by Cat A 3,220 → 3,708 (+15.2%) and Cat B 3,325 → 3,168 (−4.7%); Apr R2 → May R1 is A 532 → 612 (+15.0%) and B 560 → 527 (−5.9%). This is a category-asymmetric supply change in the same file, not a control, and it is not removed by B−A. These figures come from the vendored quota column, not a separately verified release annex.
 
 Suspension source: [LTA, 18 June 2020](https://www.lta.gov.sg/content/ltagov/en/newsroom/2020/6/news-releases/resumption-of-coe-bidding-exercises-from-6-july.html). Bidding resumes from 6 July and accumulated quota returns over July 2020–June 2021: additional reason the structural pre sample spans different supply regimes.
 
